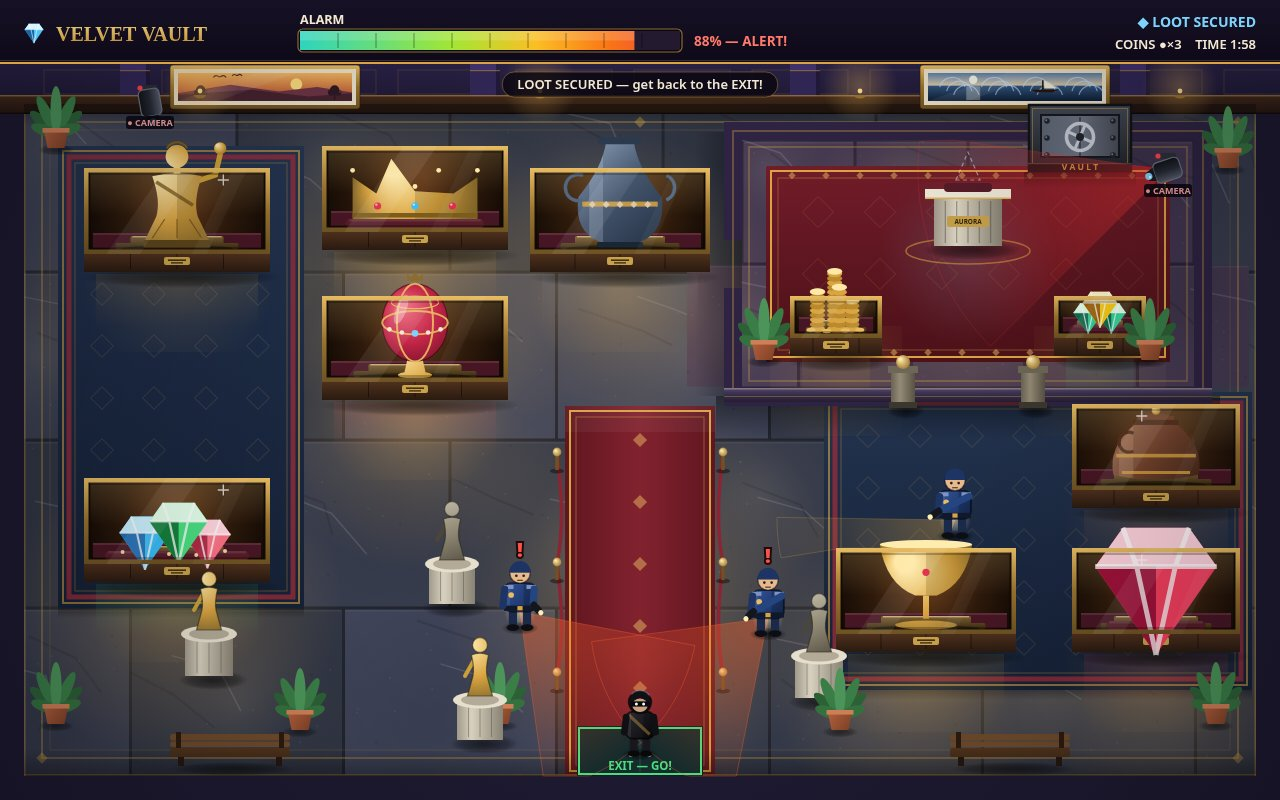
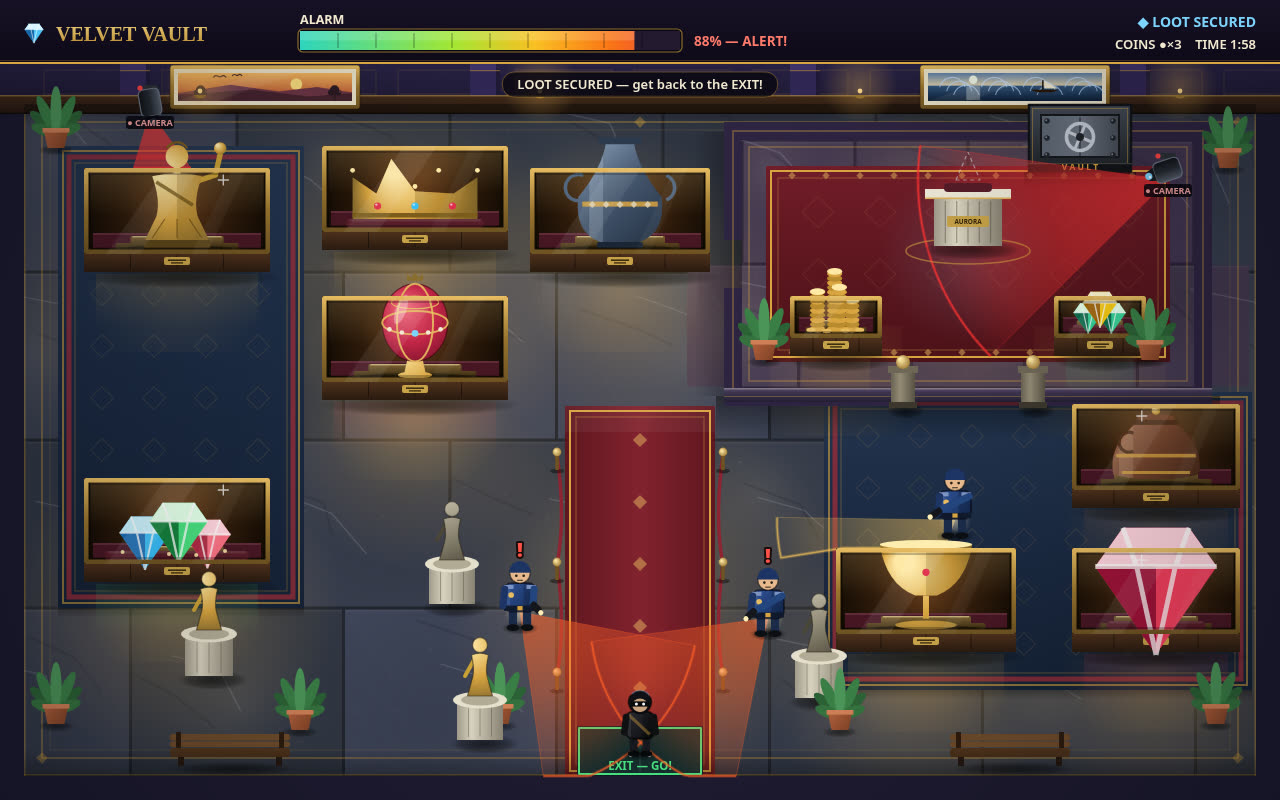
Velvet Vault v4.1: calm-state cone visibility — stronger cone fill with a soft bright leading edge, warmer calm tint, camera cones cast from below the wall band (their origin sat inside the north wall solid and the polygon collapsed to a point); patrol shot's hall guard staged 10px further north so 

diff --git a/game/src/render.js b/game/src/render.js
@@ -1473,9 +1473,11 @@ function drawExit(ctx, game) {
 
 // --- Cones and cameras -------------------------------------------------
 
-// Softer than v3: the scene must read THROUGH the cone. A radial
-// falloff clipped to the occluded polygon, with only a whisper of
-// an outline.
+// v4.1: v4's cones were too faint in the calm state — on the
+// brightened floor a calm guard cone all but vanished, and the
+// camera sweeps never read at all. The fill is stronger now and
+// the arc carries a soft bright leading edge, while the radial
+// falloff keeps the shape soft and the scene readable through it.
 function drawConeSoft(ctx, poly, ox, oy, range, rgb, hot, mul = 1) {
   if (poly.length < 2) return;
   ctx.save();
@@ -1484,20 +1486,36 @@ function drawConeSoft(ctx, poly, ox, oy, range, rgb, hot, mul = 1) {
   for (let i = 1; i < poly.length; i++) ctx.lineTo(poly[i].x, poly[i].y);
   ctx.closePath();
   ctx.clip();
-  const a = (v) => Math.min(0.85, v * mul);
+  const a = (v) => Math.min(0.9, v * mul);
   const g = ctx.createRadialGradient(ox, oy, 3, ox, oy, range);
-  g.addColorStop(0, `rgba(${rgb},${a(hot ? 0.44 : 0.32)})`);
-  g.addColorStop(0.45, `rgba(${rgb},${a(hot ? 0.25 : 0.17)})`);
-  g.addColorStop(0.8, `rgba(${rgb},${a(hot ? 0.10 : 0.06)})`);
+  g.addColorStop(0, `rgba(${rgb},${a(hot ? 0.60 : 0.52)})`);
+  g.addColorStop(0.45, `rgba(${rgb},${a(hot ? 0.40 : 0.34)})`);
+  g.addColorStop(0.8, `rgba(${rgb},${a(hot ? 0.20 : 0.17)})`);
   g.addColorStop(1, `rgba(${rgb},0)`);
   ctx.fillStyle = g;
   ctx.fillRect(ox - range, oy - range, range * 2, range * 2);
   ctx.restore();
+  // Leading edge: the arc the light reaches to, stroked as a soft
+  // bright rim (a wide low pass under a narrow stronger one) so the
+  // cone's footprint reads at a glance, calm or alert.
+  if (poly.length > 2) {
+    ctx.beginPath();
+    ctx.moveTo(poly[1].x, poly[1].y);
+    for (let i = 2; i < poly.length; i++) ctx.lineTo(poly[i].x, poly[i].y);
+    ctx.lineJoin = 'round';
+    ctx.strokeStyle = `rgba(${rgb},${Math.min(0.9, (hot ? 0.30 : 0.26) * mul)})`;
+    ctx.lineWidth = 3.5;
+    ctx.stroke();
+    ctx.strokeStyle = `rgba(${rgb},${Math.min(0.9, (hot ? 0.55 : 0.48) * mul)})`;
+    ctx.lineWidth = 1.4;
+    ctx.stroke();
+  }
+  // Faint outline of the whole fan, radial edges included.
   ctx.beginPath();
   ctx.moveTo(poly[0].x, poly[0].y);
   for (let i = 1; i < poly.length; i++) ctx.lineTo(poly[i].x, poly[i].y);
   ctx.closePath();
-  ctx.strokeStyle = `rgba(${rgb},${hot ? 0.35 : 0.2})`;
+  ctx.strokeStyle = `rgba(${rgb},${Math.min(0.9, (hot ? 0.32 : 0.24) * mul)})`;
   ctx.lineWidth = 1;
   ctx.stroke();
 }
@@ -1506,14 +1524,20 @@ function drawWatchers(ctx, game) {
   const { solids } = game.level;
   for (const c of game.cameras) {
     // Camera cones get a boost: they land on dark cases and rugs,
-    // and the judge must be able to see the sweep.
-    drawConeSoft(ctx, conePolygon(c.x, c.y, c.facing, c.half, c.range, solids),
-      c.x, c.y, c.range, '255,52,52', c.sees > 0, 1.35);
+    // and the judge must be able to see the sweep. The cone is cast
+    // from just under the mount: the camera origin sits inside the
+    // wall band, and a polygon cast from inside that solid collapses
+    // to a point — the lens hangs below the wall face, so the light
+    // starts there too.
+    const ox = c.x;
+    const oy = c.y + 10;
+    drawConeSoft(ctx, conePolygon(ox, oy, c.facing, c.half, c.range, solids),
+      ox, oy, c.range, '255,52,52', c.sees > 0, 1.3);
   }
   for (const g of game.guards) {
     const hot = g.sees > 0 || g.state === 'converge';
     drawConeSoft(ctx, conePolygon(g.x, g.y, g.facing, g.half, g.range, solids),
-      g.x, g.y, g.range, hot ? '255,96,40' : '255,186,64', hot);
+      g.x, g.y, g.range, hot ? '255,96,40' : '255,200,92', hot);
     // Flashlight glint at the cone's origin.
     const fg = ctx.createRadialGradient(g.x, g.y, 1, g.x, g.y, 16);
     fg.addColorStop(0, 'rgba(255,240,200,0.5)');

diff --git a/game/src/main.js b/game/src/main.js
@@ -163,7 +163,11 @@ function stageShot(name) {
     // the hall guard, in the lane just north of the case, sweeps
     // his cone into its glass — the case itself is her cover.
     place(game.thief, 415, 428, -Math.PI / 2);
-    place(gA, 415, 262, Math.PI / 2);
+    // gA stands 10px further north than v4 staged him: with his
+    // feet almost on the egg case, the cone's whole run was sprite
+    // and glass and the fan never showed on the floor. From here
+    // the fan opens across the lane before it hits the case.
+    place(gA, 415, 252, Math.PI / 2);
     place(gB, 1040, 470, Math.PI / 2);
     place(gC, 960, 352, -0.5);
     camA.facing = 1.8;
